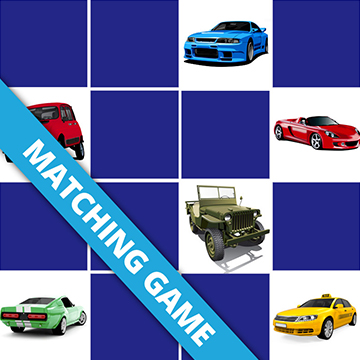
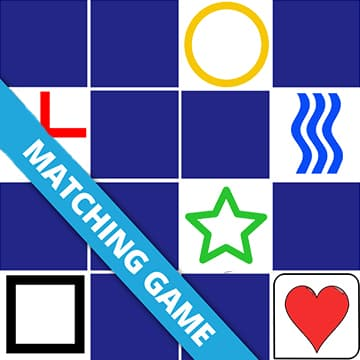
updated match game

diff --git a/css/index.min.css b/css/index.min.css
@@ -1,1 +1,1 @@
-@import'~node_modules/modern-normalize/modern-normalize.css';*{padding:0px;margin:0px;border:none}html{-webkit-box-sizing:border-box;box-sizing:border-box}*,*::before,*::after{-webkit-box-sizing:inherit;box-sizing:inherit}:focus,:active{outline:none}a:focus,a:active{outline:none}a,a:link,a:visited,a:hover{color:inherit;text-decoration:none}h1,h2,h3,h4,h5,h6,p{margin:0;font-family:inherit;font-size:inherit;font-weight:inherit}ul,ul li{list-style:none}img,svg{display:block;max-width:100%;height:auto}input,textarea,button,select{font-family:inherit;font-size:inherit;color:inherit;background-color:rgba(0,0,0,0)}button,input[type=submit]{display:block;border:none;-webkit-box-shadow:none;box-shadow:none;background-color:rgba(0,0,0,0);background:none;cursor:pointer}input:focus,input:active,button:focus,button:active{outline:none}button::-moz-focus-inner{padding:0;border:0}label{cursor:pointer}legend{display:block}html,body{width:100%;height:100%;font-family:"Segoe UI",Tahoma,Geneva,Verdana,sans-serif;font-size:16px;font-style:normal;font-weight:400;line-height:1.67;color:var(--titles-color);scroll-behavior:smooth}.no-scroll{overflow:hidden;padding-right:15px}.page__wrapper{display:-webkit-box;display:-ms-flexbox;display:flex;-webkit-box-orient:vertical;-webkit-box-direction:normal;-ms-flex-direction:column;flex-direction:column;min-height:100%}.main{-webkit-box-flex:1;-ms-flex-positive:1;flex-grow:1}.go-back__link{display:-webkit-box;display:-ms-flexbox;display:flex;-webkit-box-align:center;-ms-flex-align:center;align-items:center;gap:0 5px;-ms-flex-item-align:start;align-self:start;fill:#316068}.go-back__link span{font-size:14px;color:#316068}.go-back__icon{width:20px;height:20px}.section{width:100%;height:100dvh;padding:10px 10px;display:-webkit-box;display:-ms-flexbox;display:flex;-webkit-box-pack:center;-ms-flex-pack:center;justify-content:center;-webkit-box-align:center;-ms-flex-align:center;align-items:center}.container{max-width:1440px;margin:0 auto;padding:0 clamp(.625rem,-0.982rem + 8.04vw,6.25rem)}.header{width:100%;position:fixed}.menu__burger{display:block}@media screen and (min-width: 768px){.menu__burger{display:none}}.header__menu--wrapper{width:100%;height:100%;display:-webkit-box;display:-ms-flexbox;display:flex;-webkit-box-align:center;-ms-flex-align:center;align-items:center;position:relative;z-index:5;padding:5px 20px}.menu__heading{height:50px;display:-webkit-box;display:-ms-flexbox;display:flex;-webkit-box-align:center;-ms-flex-align:center;align-items:center;gap:0 20px}.menu__heading-title{width:120px;font-size:18px;font-weight:500;color:#1facb1}.menu__nav{width:100%;margin:0 auto;padding-top:30px;position:absolute;top:100%;left:0;z-index:100;-webkit-transition:top 300ms ease-in-out;transition:top 300ms ease-in-out}@media screen and (min-width: 768px){.menu__nav{position:static;padding-top:0}}.nav__list{width:100%;display:-webkit-box;display:-ms-flexbox;display:flex;-webkit-box-orient:vertical;-webkit-box-direction:normal;-ms-flex-direction:column;flex-direction:column;-webkit-box-pack:center;-ms-flex-pack:center;justify-content:center;-webkit-box-align:center;-ms-flex-align:center;align-items:center;gap:30px 0}@media screen and (min-width: 768px){.nav__list{-webkit-box-orient:horizontal;-webkit-box-direction:normal;-ms-flex-direction:row;flex-direction:row;gap:0 30px}}.nav__link-name{position:relative}.nav__link-name::after{content:"";display:-webkit-box;display:-ms-flexbox;display:flex;position:absolute;bottom:0;left:0;z-index:10;width:100%;height:3px;background-color:#1facb1;border-radius:2px;-webkit-transform:scaleX(0);transform:scaleX(0);-webkit-transition:-webkit-transform 300ms ease-in-out;transition:-webkit-transform 300ms ease-in-out;transition:transform 300ms ease-in-out;transition:transform 300ms ease-in-out, -webkit-transform 300ms ease-in-out}.nav__link-name:hover::after,.nav__link-name:focus-visible::after,.nav__link-name--active{-webkit-transform:scaleX(1);transform:scaleX(1)}.nav__link{display:-webkit-box;display:-ms-flexbox;display:flex;-webkit-box-align:center;-ms-flex-align:center;align-items:center;gap:0 10px}.nav__link span{font-size:18px;font-weight:500;color:#1facb1}.games__wrapper{width:100%;background-color:#222}.games__list{width:clamp(18.75rem,15rem + 18.75vw,37.5rem);height:clamp(18.75rem,15rem + 18.75vw,37.5rem);display:-webkit-box;display:-ms-flexbox;display:flex;-ms-flex-wrap:wrap;flex-wrap:wrap;gap:20px}.games__item{-ms-flex-preferred-size:calc((100% - 20px)/2);flex-basis:calc((100% - 20px)/2);-webkit-transition:-webkit-transform .3s ease;transition:-webkit-transform .3s ease;transition:transform .3s ease;transition:transform .3s ease, -webkit-transform .3s ease;border-radius:8px;overflow:hidden}.games__item:hover,.games__item:focus-visible{-webkit-transform:scale(1.05);transform:scale(1.05)}.games__item--link{width:100%}.fifteen{width:100%;min-height:100lvh;height:100%;padding-top:20px;background-color:#191c1c;-webkit-user-select:none;-moz-user-select:none;-ms-user-select:none;user-select:none}.content--wrapper.gameShuffle{pointer-events:none;opacity:.7}.fifteen__title{font-size:24px;font-weight:600;color:rgba(133,240,240,.884)}.fifteen__content--wrapper{max-width:440px;margin:20px auto 0 auto;padding:5px;border-radius:20px;background:linear-gradient(45deg, #244045, #2b4c52);-webkit-box-shadow:inset 0 0 6px 10px rgba(0,0,0,.2745098039);box-shadow:inset 0 0 6px 10px rgba(0,0,0,.2745098039)}.fifteen__title{text-align:center}.fifteen__buttons--wrapper{width:100%;padding-bottom:100%;position:relative}.fifteen__button{width:calc(25% - 5px);height:calc(25% - 5px);padding:1px;position:absolute;top:0;left:0;font-weight:600;color:rgba(133,240,240,.884);border-radius:20px;background:#344e53;-webkit-box-shadow:inset 24px -24px 47px #1f3033,inset -24px 24px 47px #2b4045;box-shadow:inset 24px -24px 47px #1f3033,inset -24px 24px 47px #2b4045;-webkit-transition:all .3s ease-in-out;transition:all .3s ease-in-out}.fifteen__button span{width:100%;height:100%;display:-webkit-box;display:-ms-flexbox;display:flex;-webkit-box-pack:center;-ms-flex-pack:center;justify-content:center;-webkit-box-align:center;-ms-flex-align:center;align-items:center;font-size:32px;border:1px solid #2b4c52;border-radius:20px}.fifteen__buttons--wrapper.fifteenWon .fifteen__button{background-color:#29ad6b}.fifteen__shuffle{min-width:100px;margin:0 auto;padding:10px 20px;font-weight:500;color:rgba(133,240,240,.884);border-radius:10px;background:linear-gradient(45deg, #244045, #2b4c52);-webkit-box-shadow:2px 2px 6px #192c30,4px 4px 8px rgba(38,67,73,.5490196078);box-shadow:2px 2px 6px #192c30,4px 4px 8px rgba(38,67,73,.5490196078);-webkit-transition:all .3s ease;transition:all .3s ease}.fifteen__shuffle:hover,s .fifteen__shuffle:focus{-webkit-transform:scale(1.05);transform:scale(1.05)}.fifteen__shuffle:active{-webkit-transform:scale(0.95);transform:scale(0.95)}.timer__container{display:-webkit-box;display:-ms-flexbox;display:flex;-webkit-box-pack:center;-ms-flex-pack:center;justify-content:center;margin:10px auto 20px auto}.timer__wrapper{display:-webkit-box;display:-ms-flexbox;display:flex;-webkit-box-pack:center;-ms-flex-pack:center;justify-content:center;padding:5px clamp(.625rem,-1.875rem + 12.5vw,1.875rem);font-size:clamp(.75rem,.25rem + 2.5vw,1rem);color:rgba(133,240,240,.884)}.timer__wrapper span{color:#c4eaec}.timer__wrapper.beat__best-time span{color:#60da9d}.timer__wrapper.no-beat__best-time span{color:#ec848d}.timer__title{margin-right:5px}.time__dots{padding:0 3px}.match{width:100%;height:100dvh;padding:10px 10px;display:-webkit-box;display:-ms-flexbox;display:flex;-webkit-box-pack:center;-ms-flex-pack:center;justify-content:center}.match__wrapper{width:100%;display:-webkit-box;display:-ms-flexbox;display:flex;-webkit-box-orient:vertical;-webkit-box-direction:normal;-ms-flex-direction:column;flex-direction:column;-webkit-box-align:center;-ms-flex-align:center;align-items:center}.match__title{margin-top:20px;font-size:22px;font-weight:500}.match__counter--title{margin-top:20px;font-size:16px;font-weight:500}.match__counter--wrapper{margin-top:10px;display:-webkit-box;display:-ms-flexbox;display:flex;-webkit-box-pack:center;-ms-flex-pack:center;justify-content:center;-webkit-box-align:center;-ms-flex-align:center;align-items:center;gap:0 20px}.match__counter--btn{color:#000;-webkit-transition:-webkit-transform .3s ease;transition:-webkit-transform .3s ease;transition:transform .3s ease;transition:transform .3s ease, -webkit-transform .3s ease}.match__counter--btn:active{-webkit-transform:scale(0.9);transform:scale(0.9)}.match__counter--btn .match__counter--icon{width:32px;fill:currentColor}.match__counter--btn.disabled{color:#a7a7a7}.match__counter--count{width:40px;height:40px;padding:5px 10px;display:-webkit-box;display:-ms-flexbox;display:flex;-webkit-box-pack:center;-ms-flex-pack:center;justify-content:center;-webkit-box-align:center;-ms-flex-align:center;align-items:center;font-size:14px;font-weight:500;border:1px solid #000;border-radius:8px;-webkit-user-select:none;-moz-user-select:none;-ms-user-select:none;user-select:none}.match__counter--info{margin-top:5px;font-size:12px}.match__cards--list{width:100%;margin-top:30px;display:-webkit-box;display:-ms-flexbox;display:flex;-webkit-box-pack:center;-ms-flex-pack:center;justify-content:center;-ms-flex-wrap:wrap;flex-wrap:wrap;gap:10px}.match__cards--item{width:60px;height:60px;border:1px solid #000;border-radius:6px;background-color:#ecf027;-webkit-transition:all .3s ease;transition:all .3s ease}.match__cards--item.active{background-color:#1ee4c9}.match__cards--item.matched-cards{background-color:#1ee438}/*# sourceMappingURL=index.min.css.map */
+@import'~node_modules/modern-normalize/modern-normalize.css';*{padding:0px;margin:0px;border:none}html{-webkit-box-sizing:border-box;box-sizing:border-box}*,*::before,*::after{-webkit-box-sizing:inherit;box-sizing:inherit}:focus,:active{outline:none}a:focus,a:active{outline:none}a,a:link,a:visited,a:hover{color:inherit;text-decoration:none}h1,h2,h3,h4,h5,h6,p{margin:0;font-family:inherit;font-size:inherit;font-weight:inherit}ul,ul li{list-style:none}img,svg{display:block;max-width:100%;height:auto}input,textarea,button,select{font-family:inherit;font-size:inherit;color:inherit;background-color:rgba(0,0,0,0)}button,input[type=submit]{display:block;border:none;-webkit-box-shadow:none;box-shadow:none;background-color:rgba(0,0,0,0);background:none;cursor:pointer}input:focus,input:active,button:focus,button:active{outline:none}button::-moz-focus-inner{padding:0;border:0}label{cursor:pointer}legend{display:block}html,body{width:100%;height:100%;font-family:"Segoe UI",Tahoma,Geneva,Verdana,sans-serif;font-size:16px;font-style:normal;font-weight:400;line-height:1.67;color:var(--titles-color);scroll-behavior:smooth}.no-scroll{overflow:hidden;padding-right:15px}.page__wrapper{display:-webkit-box;display:-ms-flexbox;display:flex;-webkit-box-orient:vertical;-webkit-box-direction:normal;-ms-flex-direction:column;flex-direction:column;min-height:100%}.main{-webkit-box-flex:1;-ms-flex-positive:1;flex-grow:1}.go-back__link{display:-webkit-box;display:-ms-flexbox;display:flex;-webkit-box-align:center;-ms-flex-align:center;align-items:center;gap:0 5px;-ms-flex-item-align:start;align-self:start;fill:#316068}.go-back__link span{font-size:14px;color:#316068}.go-back__icon{width:20px;height:20px}.section{width:100%;height:100dvh;padding:10px 10px;display:-webkit-box;display:-ms-flexbox;display:flex;-webkit-box-pack:center;-ms-flex-pack:center;justify-content:center;-webkit-box-align:center;-ms-flex-align:center;align-items:center}.container{max-width:1440px;margin:0 auto;padding:0 clamp(.625rem,-0.982rem + 8.04vw,6.25rem)}.header{width:100%;position:fixed}.menu__burger{display:block}@media screen and (min-width: 768px){.menu__burger{display:none}}.header__menu--wrapper{width:100%;height:100%;display:-webkit-box;display:-ms-flexbox;display:flex;-webkit-box-align:center;-ms-flex-align:center;align-items:center;position:relative;z-index:5;padding:5px 20px}.menu__heading{height:50px;display:-webkit-box;display:-ms-flexbox;display:flex;-webkit-box-align:center;-ms-flex-align:center;align-items:center;gap:0 20px}.menu__heading-title{width:120px;font-size:18px;font-weight:500;color:#1facb1}.menu__nav{width:100%;margin:0 auto;padding-top:30px;position:absolute;top:100%;left:0;z-index:100;-webkit-transition:top 300ms ease-in-out;transition:top 300ms ease-in-out}@media screen and (min-width: 768px){.menu__nav{position:static;padding-top:0}}.nav__list{width:100%;display:-webkit-box;display:-ms-flexbox;display:flex;-webkit-box-orient:vertical;-webkit-box-direction:normal;-ms-flex-direction:column;flex-direction:column;-webkit-box-pack:center;-ms-flex-pack:center;justify-content:center;-webkit-box-align:center;-ms-flex-align:center;align-items:center;gap:30px 0}@media screen and (min-width: 768px){.nav__list{-webkit-box-orient:horizontal;-webkit-box-direction:normal;-ms-flex-direction:row;flex-direction:row;gap:0 30px}}.nav__link-name{position:relative}.nav__link-name::after{content:"";display:-webkit-box;display:-ms-flexbox;display:flex;position:absolute;bottom:0;left:0;z-index:10;width:100%;height:3px;background-color:#1facb1;border-radius:2px;-webkit-transform:scaleX(0);transform:scaleX(0);-webkit-transition:-webkit-transform 300ms ease-in-out;transition:-webkit-transform 300ms ease-in-out;transition:transform 300ms ease-in-out;transition:transform 300ms ease-in-out, -webkit-transform 300ms ease-in-out}.nav__link-name:hover::after,.nav__link-name:focus-visible::after,.nav__link-name--active{-webkit-transform:scaleX(1);transform:scaleX(1)}.nav__link{display:-webkit-box;display:-ms-flexbox;display:flex;-webkit-box-align:center;-ms-flex-align:center;align-items:center;gap:0 10px}.nav__link span{font-size:18px;font-weight:500;color:#1facb1}.games__wrapper{width:100%;background-color:#222}.games__list{width:clamp(18.75rem,15rem + 18.75vw,37.5rem);height:clamp(18.75rem,15rem + 18.75vw,37.5rem);display:-webkit-box;display:-ms-flexbox;display:flex;-ms-flex-wrap:wrap;flex-wrap:wrap;gap:20px}.games__item{-ms-flex-preferred-size:calc((100% - 20px)/2);flex-basis:calc((100% - 20px)/2);-webkit-transition:-webkit-transform .3s ease;transition:-webkit-transform .3s ease;transition:transform .3s ease;transition:transform .3s ease, -webkit-transform .3s ease;border-radius:8px;overflow:hidden}.games__item:hover,.games__item:focus-visible{-webkit-transform:scale(1.05);transform:scale(1.05)}.games__item--link{width:100%}.fifteen{width:100%;min-height:100lvh;height:100%;padding-top:20px;background-color:#191c1c;-webkit-user-select:none;-moz-user-select:none;-ms-user-select:none;user-select:none}.content--wrapper.gameShuffle{pointer-events:none;opacity:.7}.fifteen__title{font-size:24px;font-weight:600;color:rgba(133,240,240,.884)}.fifteen__content--wrapper{max-width:440px;margin:20px auto 0 auto;padding:5px;border-radius:20px;background:linear-gradient(45deg, #244045, #2b4c52);-webkit-box-shadow:inset 0 0 6px 10px rgba(0,0,0,.2745098039);box-shadow:inset 0 0 6px 10px rgba(0,0,0,.2745098039)}.fifteen__title{text-align:center}.fifteen__buttons--wrapper{width:100%;padding-bottom:100%;position:relative}.fifteen__button{width:calc(25% - 5px);height:calc(25% - 5px);padding:1px;position:absolute;top:0;left:0;font-weight:600;color:rgba(133,240,240,.884);border-radius:20px;background:#344e53;-webkit-box-shadow:inset 24px -24px 47px #1f3033,inset -24px 24px 47px #2b4045;box-shadow:inset 24px -24px 47px #1f3033,inset -24px 24px 47px #2b4045;-webkit-transition:all .3s ease-in-out;transition:all .3s ease-in-out}.fifteen__button span{width:100%;height:100%;display:-webkit-box;display:-ms-flexbox;display:flex;-webkit-box-pack:center;-ms-flex-pack:center;justify-content:center;-webkit-box-align:center;-ms-flex-align:center;align-items:center;font-size:32px;border:1px solid #2b4c52;border-radius:20px}.fifteen__buttons--wrapper.fifteenWon .fifteen__button{background-color:#29ad6b}.fifteen__shuffle{min-width:100px;margin:0 auto;padding:10px 20px;font-weight:500;color:rgba(133,240,240,.884);border-radius:10px;background:linear-gradient(45deg, #244045, #2b4c52);-webkit-box-shadow:2px 2px 6px #192c30,4px 4px 8px rgba(38,67,73,.5490196078);box-shadow:2px 2px 6px #192c30,4px 4px 8px rgba(38,67,73,.5490196078);-webkit-transition:all .3s ease;transition:all .3s ease}.fifteen__shuffle:hover,s .fifteen__shuffle:focus{-webkit-transform:scale(1.05);transform:scale(1.05)}.fifteen__shuffle:active{-webkit-transform:scale(0.95);transform:scale(0.95)}.timer__container{display:-webkit-box;display:-ms-flexbox;display:flex;-webkit-box-pack:center;-ms-flex-pack:center;justify-content:center;margin:10px auto 20px auto}.timer__wrapper{display:-webkit-box;display:-ms-flexbox;display:flex;-webkit-box-pack:center;-ms-flex-pack:center;justify-content:center;padding:5px clamp(.625rem,-1.875rem + 12.5vw,1.875rem);font-size:clamp(.75rem,.25rem + 2.5vw,1rem);color:rgba(133,240,240,.884)}.timer__wrapper span{color:#c4eaec}.timer__wrapper.beat__best-time span{color:#60da9d}.timer__wrapper.no-beat__best-time span{color:#ec848d}.timer__title{margin-right:5px}.time__dots{padding:0 3px}.match{width:100%;padding:10px 10px;display:-webkit-box;display:-ms-flexbox;display:flex;-webkit-box-pack:center;-ms-flex-pack:center;justify-content:center}.match__wrapper{width:100%;display:-webkit-box;display:-ms-flexbox;display:flex;-webkit-box-orient:vertical;-webkit-box-direction:normal;-ms-flex-direction:column;flex-direction:column;-webkit-box-align:center;-ms-flex-align:center;align-items:center}.match__title{margin-top:20px;font-size:22px;font-weight:500}.match__counter--title{margin-top:20px;font-size:16px;font-weight:500}.match__counter--wrapper{margin-top:10px;display:-webkit-box;display:-ms-flexbox;display:flex;-webkit-box-pack:center;-ms-flex-pack:center;justify-content:center;-webkit-box-align:center;-ms-flex-align:center;align-items:center;gap:0 20px}.match__counter--btn{color:#000;-webkit-transition:-webkit-transform .3s ease;transition:-webkit-transform .3s ease;transition:transform .3s ease;transition:transform .3s ease, -webkit-transform .3s ease}.match__counter--btn:active{-webkit-transform:scale(0.9);transform:scale(0.9)}.match__counter--btn .match__counter--icon{width:32px;fill:currentColor}.match__counter--btn.disabled{color:#a7a7a7}.match__counter--count{width:40px;height:40px;padding:5px 10px;display:-webkit-box;display:-ms-flexbox;display:flex;-webkit-box-pack:center;-ms-flex-pack:center;justify-content:center;-webkit-box-align:center;-ms-flex-align:center;align-items:center;font-size:14px;font-weight:500;border:1px solid #000;border-radius:8px;-webkit-user-select:none;-moz-user-select:none;-ms-user-select:none;user-select:none}.match__counter--info{margin-top:5px;font-size:12px}.match__cards--list{width:100%;margin-top:30px;display:-webkit-box;display:-ms-flexbox;display:flex;-webkit-box-pack:center;-ms-flex-pack:center;justify-content:center;-ms-flex-wrap:wrap;flex-wrap:wrap;gap:10px}.match__cards--item{width:60px;height:60px;padding:5px;border:1px solid #000;border-radius:6px;background-color:#ecf027;-webkit-transition:all .3s ease;transition:all .3s ease}.match__cards--item.active{background-color:#1ee4c9}.match__cards--item.matched-cards{background-color:#1ee438}/*# sourceMappingURL=index.min.css.map */

diff --git a/js/match/item-element.js b/js/match/item-element.js
@@ -1,29 +1,72 @@
+const cardsData = [
+  {
+    src: 'https://res.cloudinary.com/doepexhxk/image/upload/v1711857850/JS-Games/1_fwr9yt.png',
+  },
+  {
+    src: 'https://res.cloudinary.com/doepexhxk/image/upload/v1711857857/JS-Games/2_s1x5xt.png',
+  },
+  {
+    src: 'https://res.cloudinary.com/doepexhxk/image/upload/v1711857864/JS-Games/3_kau9u0.png',
+  },
+  {
+    src: 'https://res.cloudinary.com/doepexhxk/image/upload/v1711857872/JS-Games/4_rvbsma.png',
+  },
+  {
+    src: 'https://res.cloudinary.com/doepexhxk/image/upload/v1711857879/JS-Games/5_aboue6.png',
+  },
+  {
+    src: 'https://res.cloudinary.com/doepexhxk/image/upload/v1711857886/JS-Games/6_wukmz7.png',
+  },
+  {
+    src: 'https://res.cloudinary.com/doepexhxk/image/upload/v1711857894/JS-Games/7_egkkvw.png',
+  },
+  {
+    src: 'https://res.cloudinary.com/doepexhxk/image/upload/v1711857901/JS-Games/8_hx41aq.png',
+  },
+  {
+    src: 'https://res.cloudinary.com/doepexhxk/image/upload/v1711857908/JS-Games/9_rrrgzl.png',
+  },
+  {
+    src: 'https://res.cloudinary.com/doepexhxk/image/upload/v1711857916/JS-Games/11_qlff4h.png',
+  },
+  {
+    src: 'https://res.cloudinary.com/doepexhxk/image/upload/v1711857923/JS-Games/10_k80def.png',
+  },
+  {
+    src: 'https://res.cloudinary.com/doepexhxk/image/upload/v1711857930/JS-Games/12_ftvibe.png',
+  },
+  {
+    src: 'https://res.cloudinary.com/doepexhxk/image/upload/v1711857938/JS-Games/13_nyvyuk.png',
+  },
+  {
+    src: 'https://res.cloudinary.com/doepexhxk/image/upload/v1711857945/JS-Games/14_t8wjzx.png',
+  },
+  {
+    src: 'https://res.cloudinary.com/doepexhxk/image/upload/v1711857953/JS-Games/15_rg0xrm.png',
+  },
+  {
+    src: 'https://res.cloudinary.com/doepexhxk/image/upload/v1711857960/JS-Games/16_wgfdxq.png',
+  },
+  {
+    src: 'https://res.cloudinary.com/doepexhxk/image/upload/v1711857968/JS-Games/17_lqx3ts.png',
+  },
+  {
+    src: 'https://res.cloudinary.com/doepexhxk/image/upload/v1711857975/JS-Games/18_d1jn1k.png',
+  },
+  {
+    src: 'https://res.cloudinary.com/doepexhxk/image/upload/v1711857982/JS-Games/19_sjkjdv.png',
+  },
+  {
+    src: 'https://res.cloudinary.com/doepexhxk/image/upload/v1711857990/JS-Games/20_bh3qrc.png',
+  },
+];
+
 export const cardItemEl = value => {
-  return `<li class="match__cards--item">${value}</li>`;
+  return `<li class="match__cards--item" data-value='${value}'>
+  <img src=${cardsData[value].src}
+  alt="card"
+  class="match__card--img"
+  width="200"
+  height="200" />
+  </li>`;
 };
-// export const cardItemEl = value => {
-//   return `<li class="match__cards--item">
-//   <img src="../assets/images/match/${value}.png"
-//   alt="card"
-//   class="match__card--img"
-//   width="200"
-//   height="200" />
-//   </li>`;
-// };
-
-// export const cardItemEl = value => {
-//   const cardItem = document.createElement('li');
-//   cardItem.classList.add('match__cards--item');
-
-//   const cardImg = document.createElement('img');
-//   cardImg.classList.add('match__card--img');
-//   cardImg.src = `../assets/images/match/${value}.png`;
-//   cardImg.alt = 'card';
-//   cardImg.width = '200';
-//   cardImg.height = '200';
-
-//   cardItem.append(cardImg);
-
-//   return cardItem;
-// };
-// https://drive.google.com/file/d/1tByHXKwubaunwxVE6wfVCLUBPY4aQOr7/view?usp=sharing

diff --git a/js/match/match-game.js b/js/match/match-game.js
@@ -56,7 +56,7 @@ function makeRandomCardsLayout() {
   const randomList = [];
 
   for (let i = 0; i < count; i++) {
-    randomList.push(cardItemEl(i + 1), cardItemEl(i + 1));
+    randomList.push(cardItemEl(i), cardItemEl(i));
   }
 
   for (let i = 0; i < randomList.length; i++) {
@@ -112,7 +112,10 @@ function onClickCard(card, cardsItems) {
   }
 
   if (firstCard && secondCard) {
-    if (firstCard.textContent === secondCard.textContent) {
+    if (
+      firstCard.getAttribute('data-value') ===
+      secondCard.getAttribute('data-value')
+    ) {
       firstCard.classList.add('matched-cards');
       secondCard.classList.add('matched-cards');
     }

diff --git a/css/index.css b/css/index.css
@@ -497,7 +497,6 @@ body {
 
 .match {
   width: 100%;
-  height: 100dvh;
   padding: 10px 10px;
   display: -webkit-box;
   display: -ms-flexbox;
@@ -611,6 +610,7 @@ body {
 .match__cards--item {
   width: 60px;
   height: 60px;
+  padding: 5px;
   border: 1px solid #000;
   border-radius: 6px;
   background-color: #ecf027;

diff --git a/src/sass/layout/_match.scss b/src/sass/layout/_match.scss
@@ -1,6 +1,6 @@
 .match {
   width: 100%;
-  height: 100dvh;
+  //   height: 100dvh;
 
   padding: 10px 10px;
 
@@ -96,6 +96,8 @@
 .match__cards--item {
   width: 60px; // 60 -
   height: 60px; // 60 -
+
+  padding: 5px;
 
   border: 1px solid #000;
   border-radius: 6px;
